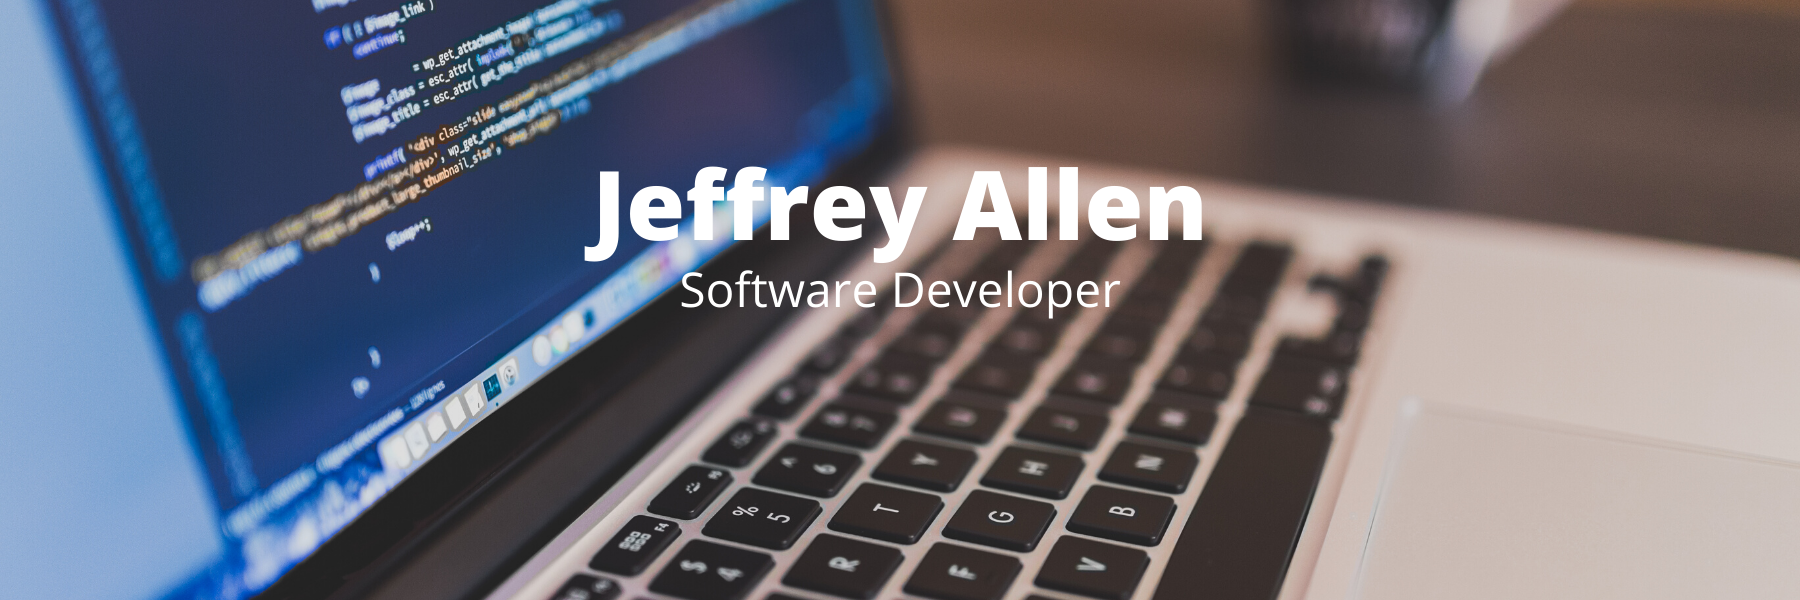
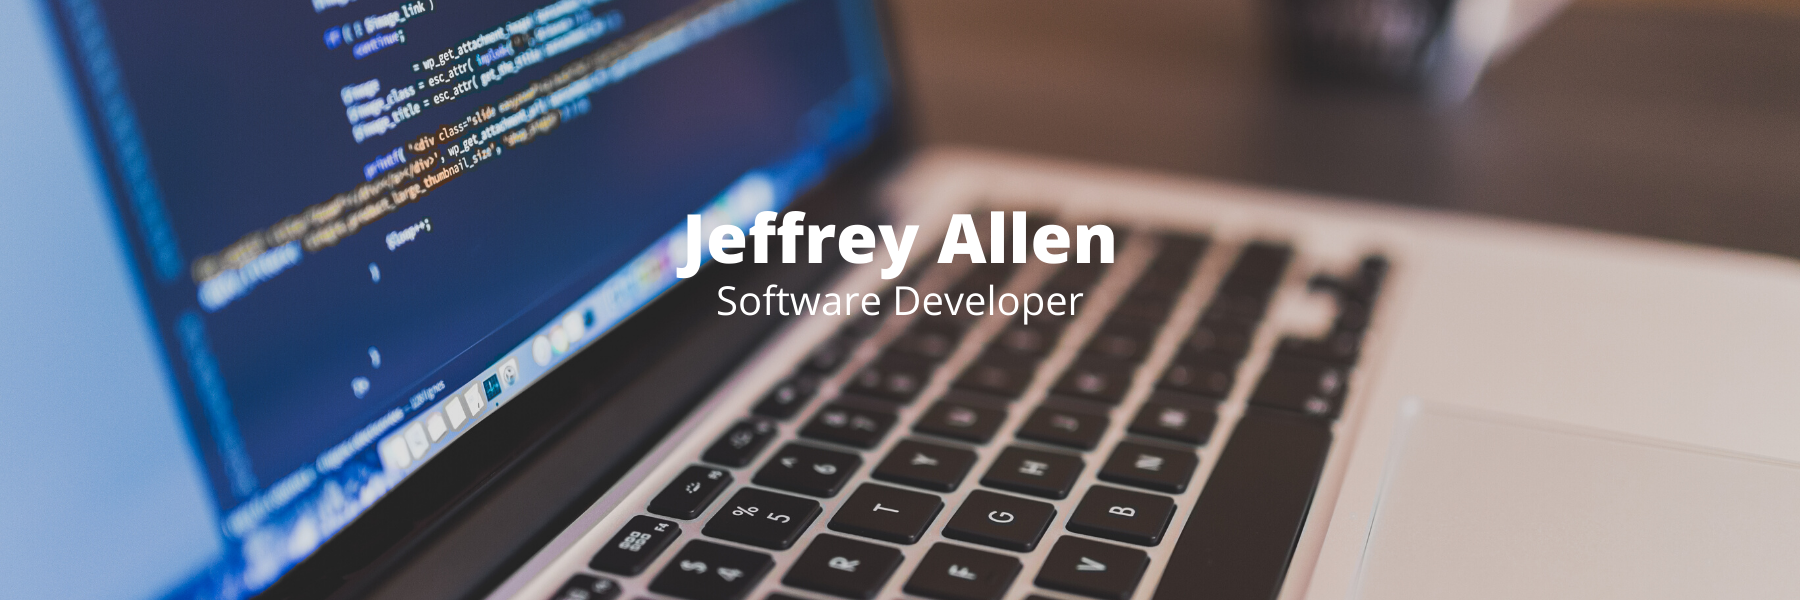
Added jekyll-cache to ignore. fixed center image for small devices

Changed region(s): [[0.3111, 0.27, 0.6844, 0.54]]

diff --git a/_sass/_style.scss b/_sass/_style.scss
@@ -1,3 +1,7 @@
+body{
+  min-width: 410px !important;
+}
+
 .carousel-control, .carousel-indicators {
   display: none !important;
 }
@@ -2510,9 +2514,11 @@ body {
   }
   .header-back {
     height: 470px;
-    background-size: auto;
-    background-position: 50% 0;
-    background-repeat:  no-repeat;
+    -webkit-background-size: cover;
+    -moz-background-size: cover;
+    -o-background-size: cover;
+    background-size: cover;
+    background-position: center center;
   }
   .carousel {
     height: 470px;
